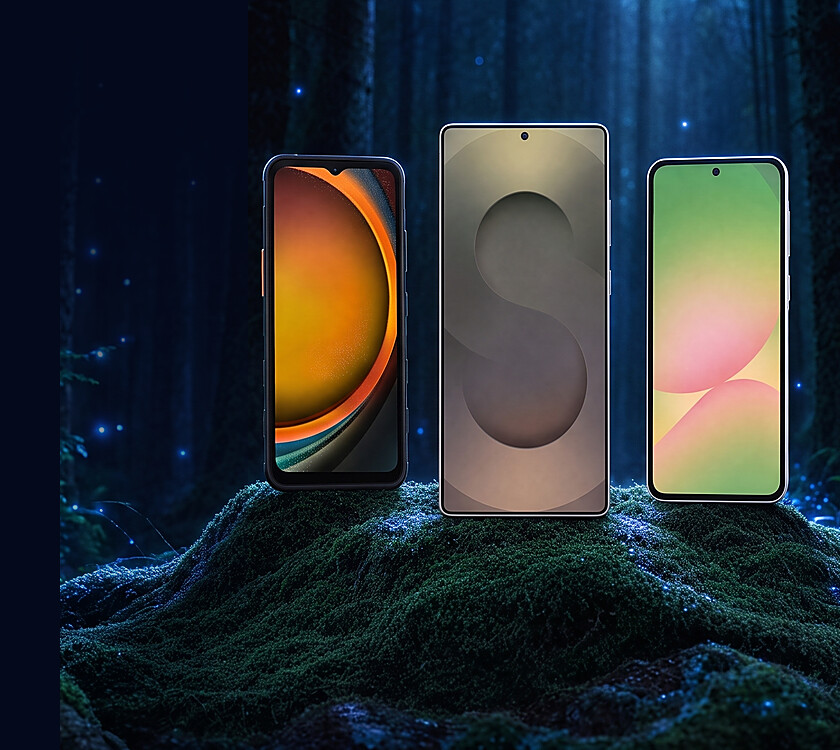
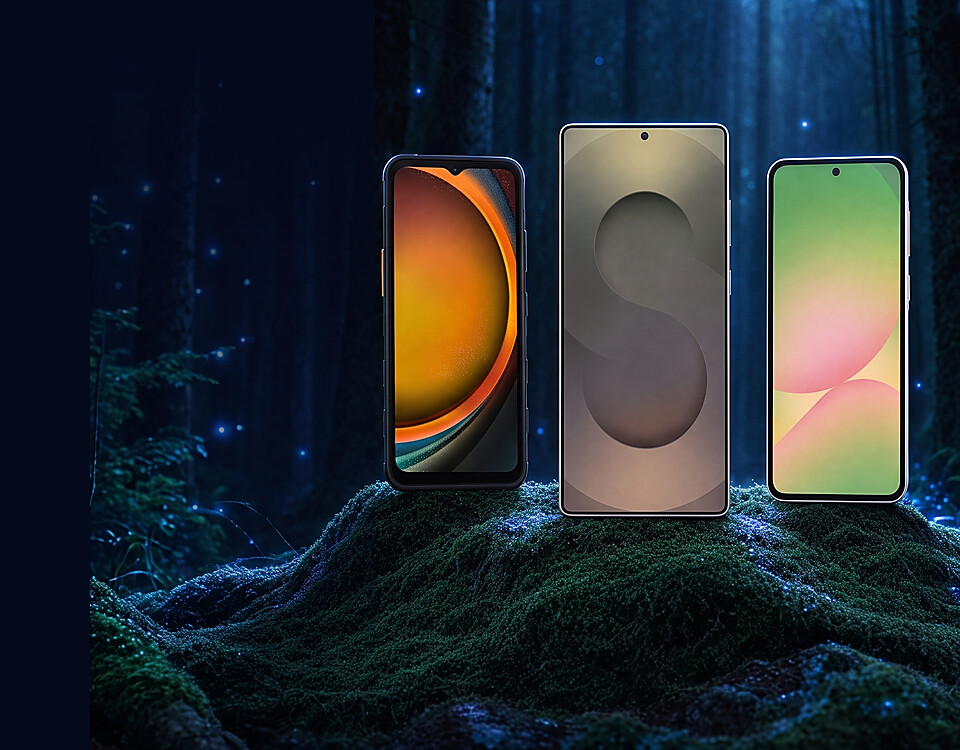
Newsletter Brother: baner Samsung - szersza kolumna grafiki, dlugie przejscie tla
Claude-Session: https://claude.ai/code/session_01X57qBmLgKtKjRLyAyXaXJd

diff --git a/public/newsletter/editions/2026-09-08-brother-wielofunkcyjne.html b/public/newsletter/editions/2026-09-08-brother-wielofunkcyjne.html
@@ -422,8 +422,8 @@
                       Zobacz modele&nbsp;&#8594;
                     </a>
                   </td>
-                  <td width="280" bgcolor="#04091c" align="right" valign="middle" style="background-color:#04091c;">
-                    <a href="https://www.rejestratory.info/kategoria/telefony?utm_source=newsletter&utm_medium=email&utm_campaign=brother-mfp-2026-09-08" style="text-decoration:none;"><img src="https://www.rejestratory.info/newsletter/samsung-banner.jpg?v=8" alt="Smartfony Samsung Galaxy w lesie" width="280" style="width:280px;max-width:280px;height:auto;border:0;display:block;"></a>
+                  <td width="320" bgcolor="#04091c" align="right" valign="middle" style="background-color:#04091c;">
+                    <a href="https://www.rejestratory.info/kategoria/telefony?utm_source=newsletter&utm_medium=email&utm_campaign=brother-mfp-2026-09-08" style="text-decoration:none;"><img src="https://www.rejestratory.info/newsletter/samsung-banner.jpg?v=9" alt="Smartfony Samsung Galaxy w lesie" width="320" style="width:320px;max-width:320px;height:auto;border:0;display:block;"></a>
                   </td>
                 </tr>
               </table>

diff --git a/PROGRESS.md b/PROGRESS.md
@@ -12,7 +12,7 @@ Jakub przesunął kolejkę: po Apple (bulk poszedł dziś 8:30) idzie kategoria 
 
 **Druga runda uwag (02.09, wieczór).** Z ciemnego bloku tytułowego wyleciał podtytuł „Pięć modeli w ofercie ZUP Łódź: mono od…”, a w bloku ceny podpis skrócony do „zakup przez Zakład Usługowo-Produkcyjny LP w Łodzi”. **Trzy nowe adresy w bazie odbiorców**: `handlowy@takma.com.pl`, `anita.lis@lodz.lasy.gov.pl`, `ewa.sasiak@lodz.lasy.gov.pl` — w nowym `newsletter/odbiorcy-dodatkowi.json`, scalanym w `lib/newsletter.ts` (pipeline) i w `scripts/send-newsletter.mjs` (ręcznie); `--list` pokazuje 605 odbiorców (było 602). Termin wysyłki Jakub dopiero ustali — manifest na razie zostaje na 08.09 8:30.
 
-**Baner na dole: Samsung zamiast EM45** (uwaga Jakuba po drugiej próbce). Nowy `samsung-banner.jpg` (560 × 500) z gpt_image_2 z trzema referencjami 1:1 z `public/` — S25 Ultra z przodu, XCover 7 i A56 za nim, na mchu w nocnym lesie, światło w niebieskiej kolorystyce Samsunga (#1428A0) zamiast limonki; z dwóch wariantów wzięty ten, w którym telefony stoją w mchu, a nie wiszą nad nim. Logo: `samsung-logo-white.png` z simpleicons (curl `cdn.simpleicons.org/samsung/ffffff` → sharp → `-trim`), 15 px nad kickerem. Tło banera `#04091c`, akcenty `#7fa6ff`, tekst z opisów kategorii telefonów: XCover 7 IP68 i wymienna bateria, S25 Ultra S Pen i 200 Mpx; link na `/kategoria/telefony`. Po próbce Jakub: za dużo tekstu (nie wymieniać modeli, skoro jest link) i telefony słabo widoczne, nierówno. Druga wersja: tekst skrócony do „Smartfony / Galaxy dla nadleśnictw / Od wzmocnionego XCover 7 po S25 Ultra.”, grafika wygenerowana od nowa z promptem o równym rzędzie (ta sama wysokość, równe odstępy, na wprost, 85% wysokości kadru, jasne studyjne światło, rozmyte tło) — `?v=2` w ścieżce. Trzecia runda: Jakub — „logo Samsung wyżej” i „ta grafika to jak w Paincie, poprzednia była super, popraw tylko położenie telefonów”. Logo poszło do osobnego wiersza zagnieżdżonej tabeli (`valign="top"`, komórka 250 px), tekst wyśrodkowany w drugim wierszu. Grafika: **edycja pierwszej sceny** — poprzedni obraz banera wgrany jako pierwsza referencja obok trzech renderów, prompt „keep the scene exactly, change only the arrangement of the phones: one evenly spaced row, same angle, bottoms aligned, none hidden”. Zadziałało co do joty: ten sam las, mech i światło, telefony w równym rzędzie. `?v=3`. Wniosek: gdy scena jest dobra, a układ nie — podawać gotowy obraz jako referencję i edytować, zamiast generować od zera. Czwarta runda: blok tekstu podniesiony (drugi wiersz `valign="top"`, odstęp 22 px pod logo zamiast centrowania, które w Gmailu spychało tekst w dół) i **przejście tło → grafika**: lewe 130 px obrazu wtopione w `#04091c` gradientem (`gradient:` + `-compose over`), żeby krawędź kolumny nie wyglądała na uciętą; `?v=4`. Jakub: „brak zmian” — Gmail rozdał nadmiarową wysokość zagnieżdżonej tabeli na wiersz z logo i tekst dalej siedział nisko. Piąta wersja: **bez zagnieżdżonej tabeli**, logo i tekst w jednej komórce `valign="top"`, logo z `margin-bottom:24px`; gradient poszerzony ze 130 do 220 px; `?v=5`. Wniosek: w mailu nie centrować pionowo przez `height` tabeli z kilkoma wierszami — Gmail rozciąga wiersze po swojemu. Szósta wersja, bo gradient na kadrze z telefonami do samej krawędzi zaciemniał XCover („zmień sposób”): scena **dosztukowana w lewo** narzędziem `outpaint_image` Higgsfielda (job z równym rzędem → 16:9, 2752 × 1536), kadr `1720x1536+215+0` tak, że lewe ~220 px banera to sam las bez telefonów, a gradient 170 px kończy się przed pierwszym telefonem; `?v=6`. Jakub: „nadal jest odcięcie” — liniowy gradient przy krawędzi miał za małe krycie (jasne drobinki lasu prześwitywały przez 85%), a JPEG z podpróbkowaniem chrominancji przekłamywał granat. Siódma wersja: maska z **pełnym kryciem na pierwszych 40 px**, potem krzywa S (`-sigmoidal-contrast 6x50%`) do 165 px, czyli przed lewą krawędzią XCover (172 px), zapis `-sampling-factor 1x1 -quality 90`; piksel przy krawędzi = dokładnie `#04091c`; `?v=7`. Ósma: „wyostrz” — plik był 2× (560 px) i po skalowaniu z outpaintu wyszedł miękki; teraz **3× (840 × 750)** z `-unsharp 0x1.2+1.0+0.02`, maska przeskalowana (60 px pełne, S-krzywa do 248 px), atrybut `width="280"` bez zmian; `?v=8`.
+**Baner na dole: Samsung zamiast EM45** (uwaga Jakuba po drugiej próbce). Nowy `samsung-banner.jpg` (560 × 500) z gpt_image_2 z trzema referencjami 1:1 z `public/` — S25 Ultra z przodu, XCover 7 i A56 za nim, na mchu w nocnym lesie, światło w niebieskiej kolorystyce Samsunga (#1428A0) zamiast limonki; z dwóch wariantów wzięty ten, w którym telefony stoją w mchu, a nie wiszą nad nim. Logo: `samsung-logo-white.png` z simpleicons (curl `cdn.simpleicons.org/samsung/ffffff` → sharp → `-trim`), 15 px nad kickerem. Tło banera `#04091c`, akcenty `#7fa6ff`, tekst z opisów kategorii telefonów: XCover 7 IP68 i wymienna bateria, S25 Ultra S Pen i 200 Mpx; link na `/kategoria/telefony`. Po próbce Jakub: za dużo tekstu (nie wymieniać modeli, skoro jest link) i telefony słabo widoczne, nierówno. Druga wersja: tekst skrócony do „Smartfony / Galaxy dla nadleśnictw / Od wzmocnionego XCover 7 po S25 Ultra.”, grafika wygenerowana od nowa z promptem o równym rzędzie (ta sama wysokość, równe odstępy, na wprost, 85% wysokości kadru, jasne studyjne światło, rozmyte tło) — `?v=2` w ścieżce. Trzecia runda: Jakub — „logo Samsung wyżej” i „ta grafika to jak w Paincie, poprzednia była super, popraw tylko położenie telefonów”. Logo poszło do osobnego wiersza zagnieżdżonej tabeli (`valign="top"`, komórka 250 px), tekst wyśrodkowany w drugim wierszu. Grafika: **edycja pierwszej sceny** — poprzedni obraz banera wgrany jako pierwsza referencja obok trzech renderów, prompt „keep the scene exactly, change only the arrangement of the phones: one evenly spaced row, same angle, bottoms aligned, none hidden”. Zadziałało co do joty: ten sam las, mech i światło, telefony w równym rzędzie. `?v=3`. Wniosek: gdy scena jest dobra, a układ nie — podawać gotowy obraz jako referencję i edytować, zamiast generować od zera. Czwarta runda: blok tekstu podniesiony (drugi wiersz `valign="top"`, odstęp 22 px pod logo zamiast centrowania, które w Gmailu spychało tekst w dół) i **przejście tło → grafika**: lewe 130 px obrazu wtopione w `#04091c` gradientem (`gradient:` + `-compose over`), żeby krawędź kolumny nie wyglądała na uciętą; `?v=4`. Jakub: „brak zmian” — Gmail rozdał nadmiarową wysokość zagnieżdżonej tabeli na wiersz z logo i tekst dalej siedział nisko. Piąta wersja: **bez zagnieżdżonej tabeli**, logo i tekst w jednej komórce `valign="top"`, logo z `margin-bottom:24px`; gradient poszerzony ze 130 do 220 px; `?v=5`. Wniosek: w mailu nie centrować pionowo przez `height` tabeli z kilkoma wierszami — Gmail rozciąga wiersze po swojemu. Szósta wersja, bo gradient na kadrze z telefonami do samej krawędzi zaciemniał XCover („zmień sposób”): scena **dosztukowana w lewo** narzędziem `outpaint_image` Higgsfielda (job z równym rzędem → 16:9, 2752 × 1536), kadr `1720x1536+215+0` tak, że lewe ~220 px banera to sam las bez telefonów, a gradient 170 px kończy się przed pierwszym telefonem; `?v=6`. Jakub: „nadal jest odcięcie” — liniowy gradient przy krawędzi miał za małe krycie (jasne drobinki lasu prześwitywały przez 85%), a JPEG z podpróbkowaniem chrominancji przekłamywał granat. Siódma wersja: maska z **pełnym kryciem na pierwszych 40 px**, potem krzywa S (`-sigmoidal-contrast 6x50%`) do 165 px, czyli przed lewą krawędzią XCover (172 px), zapis `-sampling-factor 1x1 -quality 90`; piksel przy krawędzi = dokładnie `#04091c`; `?v=7`. Ósma: „wyostrz” — plik był 2× (560 px) i po skalowaniu z outpaintu wyszedł miękki; teraz **3× (840 × 750)** z `-unsharp 0x1.2+1.0+0.02`, maska przeskalowana (60 px pełne, S-krzywa do 248 px), atrybut `width="280"` bez zmian; `?v=8`. Dziewiąta: Jakub nadal widział odcięcie — 20 px pełnego tła i 60 px wygaszania to za mało przy fakturze lasu, a dłuższy gradient wchodziłby w XCover. Rozwiązanie: **kolumna grafiki poszerzona z 280 do 320 px** (tekst ma 216 px, nagłówek i tak łamał się na dwie linie), kadr z outpaintu `1714x1339+221+120` → 960 × 750, telefony w tym samym rozmiarze, a lewe 126 px css to sam las; maska: 30 px css pełne krycie, potem łagodna krzywa (`-sigmoidal-contrast 3x50%`) do 125 px, czyli dokładnie do lewej krawędzi XCover; `?v=9`.
 
 **Poprawki po testówce (02.09, 17:53).** Pas u góry tylko „administratorowi SILP”; zdjęcie wiodące 260 → 182 px (o 30% mniejsze); lead uporządkowany („trzy monochromatyczne i dwa kolorowe”), bez zdania o TAKMA; w bloku ceny zamiast trzech kolumn dwie: „dostawa i serwis gwarancyjny TAKMA” (bez dwukropka) i „w ofercie również tonery oraz bębny” — Jakub odrzucił „tonery w tej samej ofercie ZUP” jako zły język, a notę o VAT jako zbędną.
 
